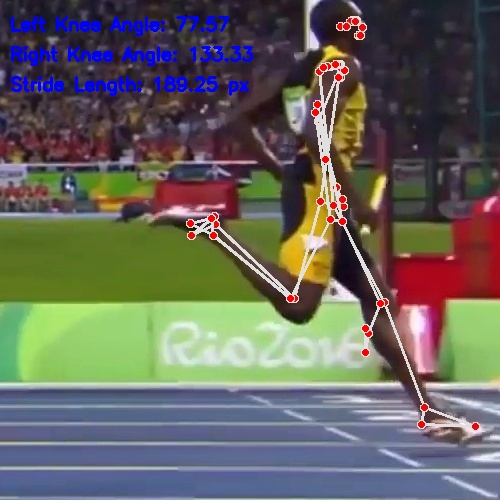
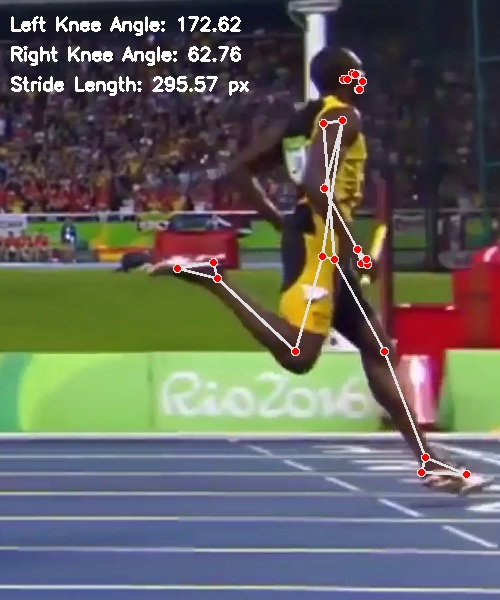
Re edit the angle calculation

diff --git a/Calculating_angles.py b/Calculating_angles.py
@@ -10,7 +10,6 @@ logging.set_verbosity(logging.ERROR)
 
 # Initialize directories
 frames_directory = 'Edited_Frames'
-poses_directory = 'Poses'
 mechanics_directory = 'Mechanics'
 os.makedirs(mechanics_directory, exist_ok=True)
 
@@ -19,12 +18,12 @@ mp_pose = mp.solutions.pose
 mp_drawing = mp.solutions.drawing_utils
 pose = mp_pose.Pose(static_image_mode=True, model_complexity=1, min_detection_confidence=0.5)
 
-# Process each frame in the 'Poses' directory
-frame_files = [f for f in os.listdir(poses_directory) if f.endswith('.jpg')]
+# Process each frame in the 'Edited_Frames' directory
+frame_files = [f for f in os.listdir(frames_directory) if f.endswith('.jpg')]
 frame_files.sort()
 
 if not frame_files:
-    print("No frames found in the 'Poses' directory.")
+    print("No frames found in the 'Edited_Frames' directory.")
     exit()
 
 print(f"Processing {len(frame_files)} frames for biomechanics analysis...")
@@ -44,7 +43,7 @@ def calculate_angle(a, b, c):
 for frame_file in frame_files:
     try:
         print(f"Analyzing frame: {frame_file}")
-        frame_path = os.path.join(poses_directory, frame_file)
+        frame_path = os.path.join(frames_directory, frame_file)
         frame = cv2.imread(frame_path)
 
         if frame is None:
@@ -86,13 +85,13 @@ for frame_file in frame_files:
             # Calculate stride length (distance between left and right feet)
             stride_length = np.linalg.norm(np.array(foot_left) - np.array(foot_right))
 
-            # Annotate the frame
-            cv2.putText(frame, f"Left Knee Angle: {knee_angle_left:.2f}", (10, 30),
-                        cv2.FONT_HERSHEY_SIMPLEX, 0.6, (255, 0, 0), 2)
-            cv2.putText(frame, f"Right Knee Angle: {knee_angle_right:.2f}", (10, 60),
-                        cv2.FONT_HERSHEY_SIMPLEX, 0.6, (255, 0, 0), 2)
-            cv2.putText(frame, f"Stride Length: {stride_length:.2f} px", (10, 90),
-                        cv2.FONT_HERSHEY_SIMPLEX, 0.6, (255, 0, 0), 2)
+            # Annotate the frame with white bold text
+            font = cv2.FONT_HERSHEY_SIMPLEX
+            thickness = 2
+            color = (255, 255, 255)
+            cv2.putText(frame, f"Left Knee Angle: {knee_angle_left:.2f}", (10, 30), font, 0.6, color, thickness)
+            cv2.putText(frame, f"Right Knee Angle: {knee_angle_right:.2f}", (10, 60), font, 0.6, color, thickness)
+            cv2.putText(frame, f"Stride Length: {stride_length:.2f} px", (10, 90), font, 0.6, color, thickness)
 
             # Draw landmarks and connections
             mp_drawing.draw_landmarks(frame, results.pose_landmarks, mp_pose.POSE_CONNECTIONS)
